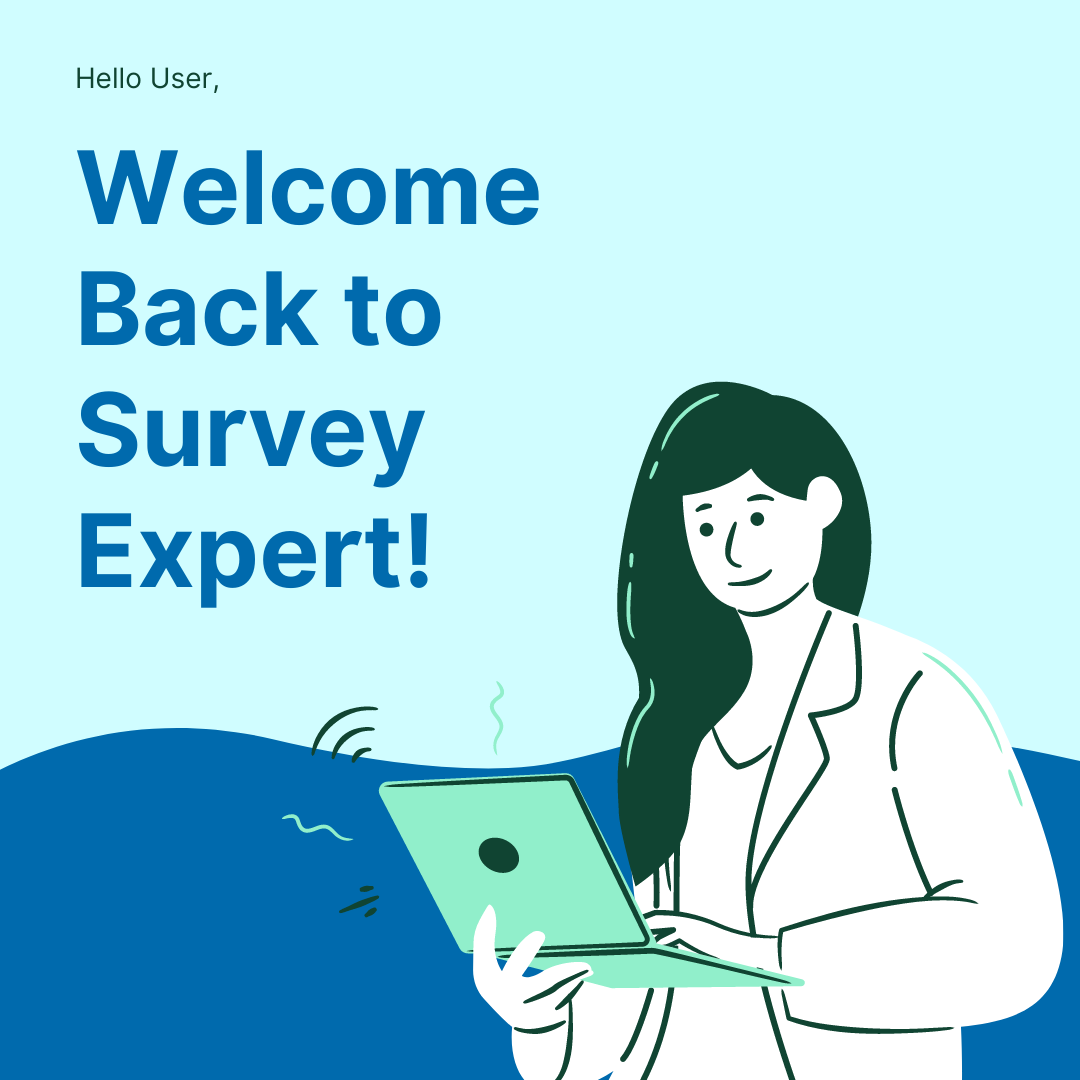
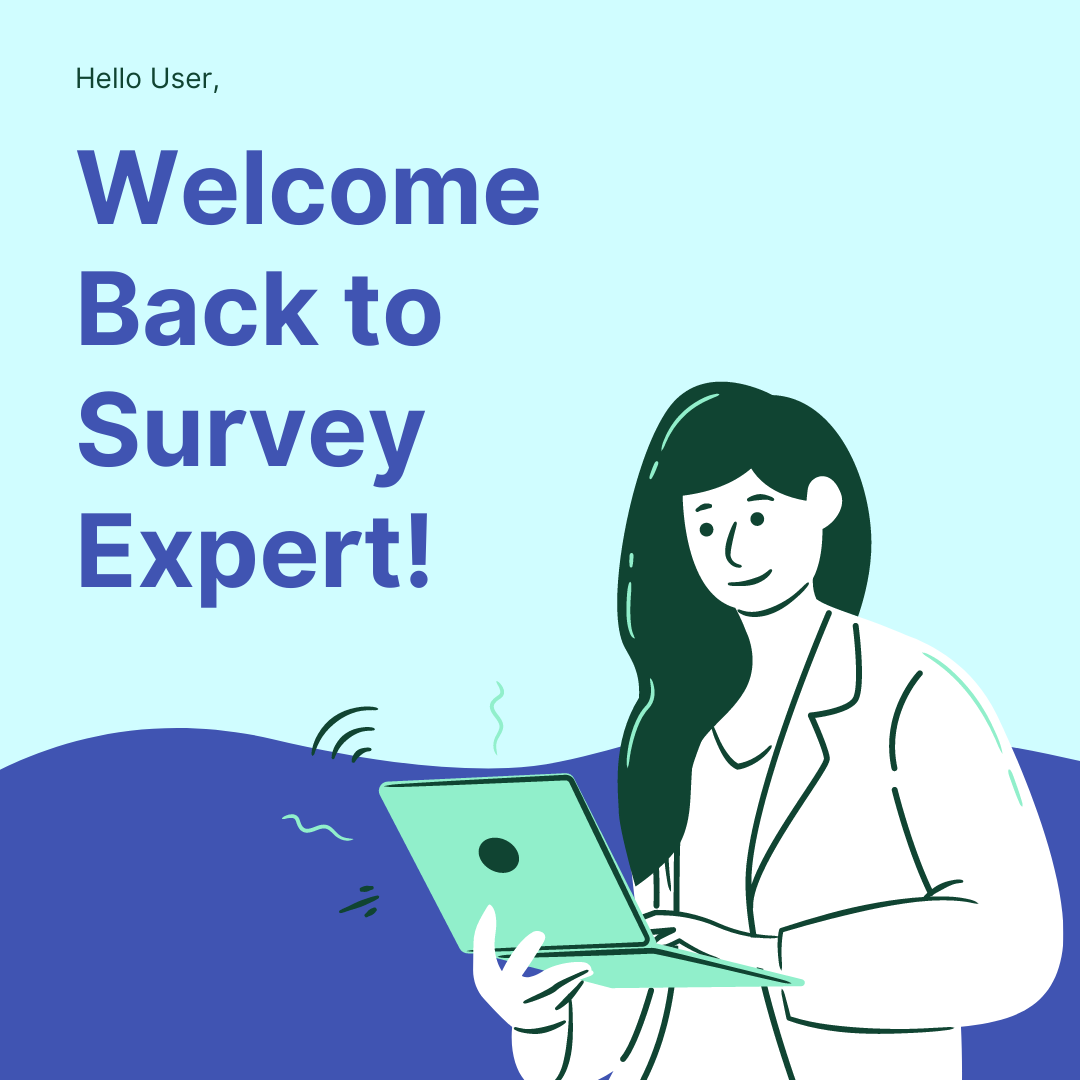
ui

diff --git a/Front End/src/app/signup/signup.component.html b/Front End/src/app/signup/signup.component.html
@@ -3,16 +3,16 @@
 
 <section class="vh-100">
   <div class="container py-5">
-  <div class="row d-flex align-items-center justify-content-center h-100">
+  <div class="row d-flex align-items-center justify-content-center h-100 border">
     <div class="col-md-8 col-lg-7 col-xl-6  ">
       <img src="assets\img\signup.png" class="img-fluid"
       alt="Sample image">   
      </div>
-  <div class="col-md-7 col-lg-5 col-xl-5 offset-xl-1 border">
+  <div class="col-md-7 col-lg-5 col-xl-5 offset-xl-1">
   <form (ngSubmit) = "registerUser()">
 
     <!-- first name -->
-    <mat-form-field appearance="fill" style="width: 500px;">
+    <mat-form-field appearance="fill" style="width: 300px;">
       <mat-label>First Name</mat-label>
       <input
       [(ngModel)]="user.first_name"
@@ -21,7 +21,7 @@
     </mat-form-field><br/>
   
     <!-- last name -->
-    <mat-form-field appearance="fill" style="width: 500px;">
+    <mat-form-field appearance="fill" style="width: 300px;">
       <mat-label>Last Name</mat-label>
       <input
       [(ngModel)]="user.last_name"
@@ -30,7 +30,7 @@
     </mat-form-field><br/>
 
     <!-- email -->
-    <mat-form-field appearance="outline" style="width: 500px;">
+    <mat-form-field appearance="fill" style="width: 300px;">
       <mat-label>Email</mat-label>
       <input
       [(ngModel)]="user.username"
@@ -40,7 +40,7 @@
     </mat-form-field><br/>
 
     <!-- password -->
-    <mat-form-field appearance="outline" style="width: 500px;">
+    <mat-form-field appearance="fill" style="width: 300px;">
       <mat-label>Password</mat-label>
       <input
       type="password"

diff --git a/Front End/src/app/give-survey/give-survey.component.html b/Front End/src/app/give-survey/give-survey.component.html
@@ -74,9 +74,9 @@
     </mat-card-content>
     
     </mat-card></div><br><br>
-    <button class="center" mat-raised-button color="primary" (click)="SaveResponse()">Save Survey</button>
+    <button class="ml45" mat-raised-button color="primary" (click)="SaveResponse()">Save Survey</button>
     <div *ngIf="current==noQuest">
-        <button class="center" mat-raised-button color="primary" (click)="SaveResponse()">Finish Survey</button>
+        <button class="mt10" mat-raised-button color="primary" (click)="SaveResponse()">Finish Survey</button>
     </div>
     </div>
 

diff --git a/Front End/src/app/give-survey/give-survey.component.css b/Front End/src/app/give-survey/give-survey.component.css
@@ -13,12 +13,23 @@ html,body {   background-color:rgb(26, 109, 145); }
     margin-left: 5px;
 }
 .ml15{
+    align-self: auto;
     margin-left: 15px;;
 }
 .ml20{
-    margin-left: 550px;
+    margin-left: 40%;
+    /* align-self: auto; */
 }
 .border{
     border-bottom: 2px;
     font-size: 15px;
+}
+
+.ml45{
+    margin-left: 45%;
+}
+
+.mt10{
+    margin-left: 45%;
+    margin-top: 3%;
 }

diff --git a/Front End/src/app/AdminHomePage/admin-home/admin-home.component.html b/Front End/src/app/AdminHomePage/admin-home/admin-home.component.html
@@ -1,6 +1,6 @@
 <mat-card>
   <span>
-  <h3 class="text-center head">Welcome to Survey Expert</h3>
+  <h3 class="c head">Welcome to Survey Expert</h3>
   </span>
   </mat-card>
 

diff --git a/Front End/src/app/login/login.component.css b/Front End/src/app/login/login.component.css
@@ -13,7 +13,7 @@
 }
 
 .mycolour{
-  background-color: #006aad;
+  background-color: #4054b2;
   color: #eee;
 
 }

diff --git a/Front End/src/app/signup/signup.component.css b/Front End/src/app/signup/signup.component.css
@@ -13,7 +13,7 @@
 }
 
 .mycolour{
-  background-color: #006aad;
+  background-color: #4054b2;
   color: #eee;
 
 }

diff --git a/Front End/src/app/addnew-question/addnew-question.component.html b/Front End/src/app/addnew-question/addnew-question.component.html
@@ -86,4 +86,3 @@
          </div>
      </div>
  </div>
- {{question | json}}

diff --git a/Front End/src/app/AdminHomePage/admin-home/admin-home.component.css b/Front End/src/app/AdminHomePage/admin-home/admin-home.component.css
@@ -1,0 +1,3 @@
+.c{
+    margin-left: 30%;
+}
